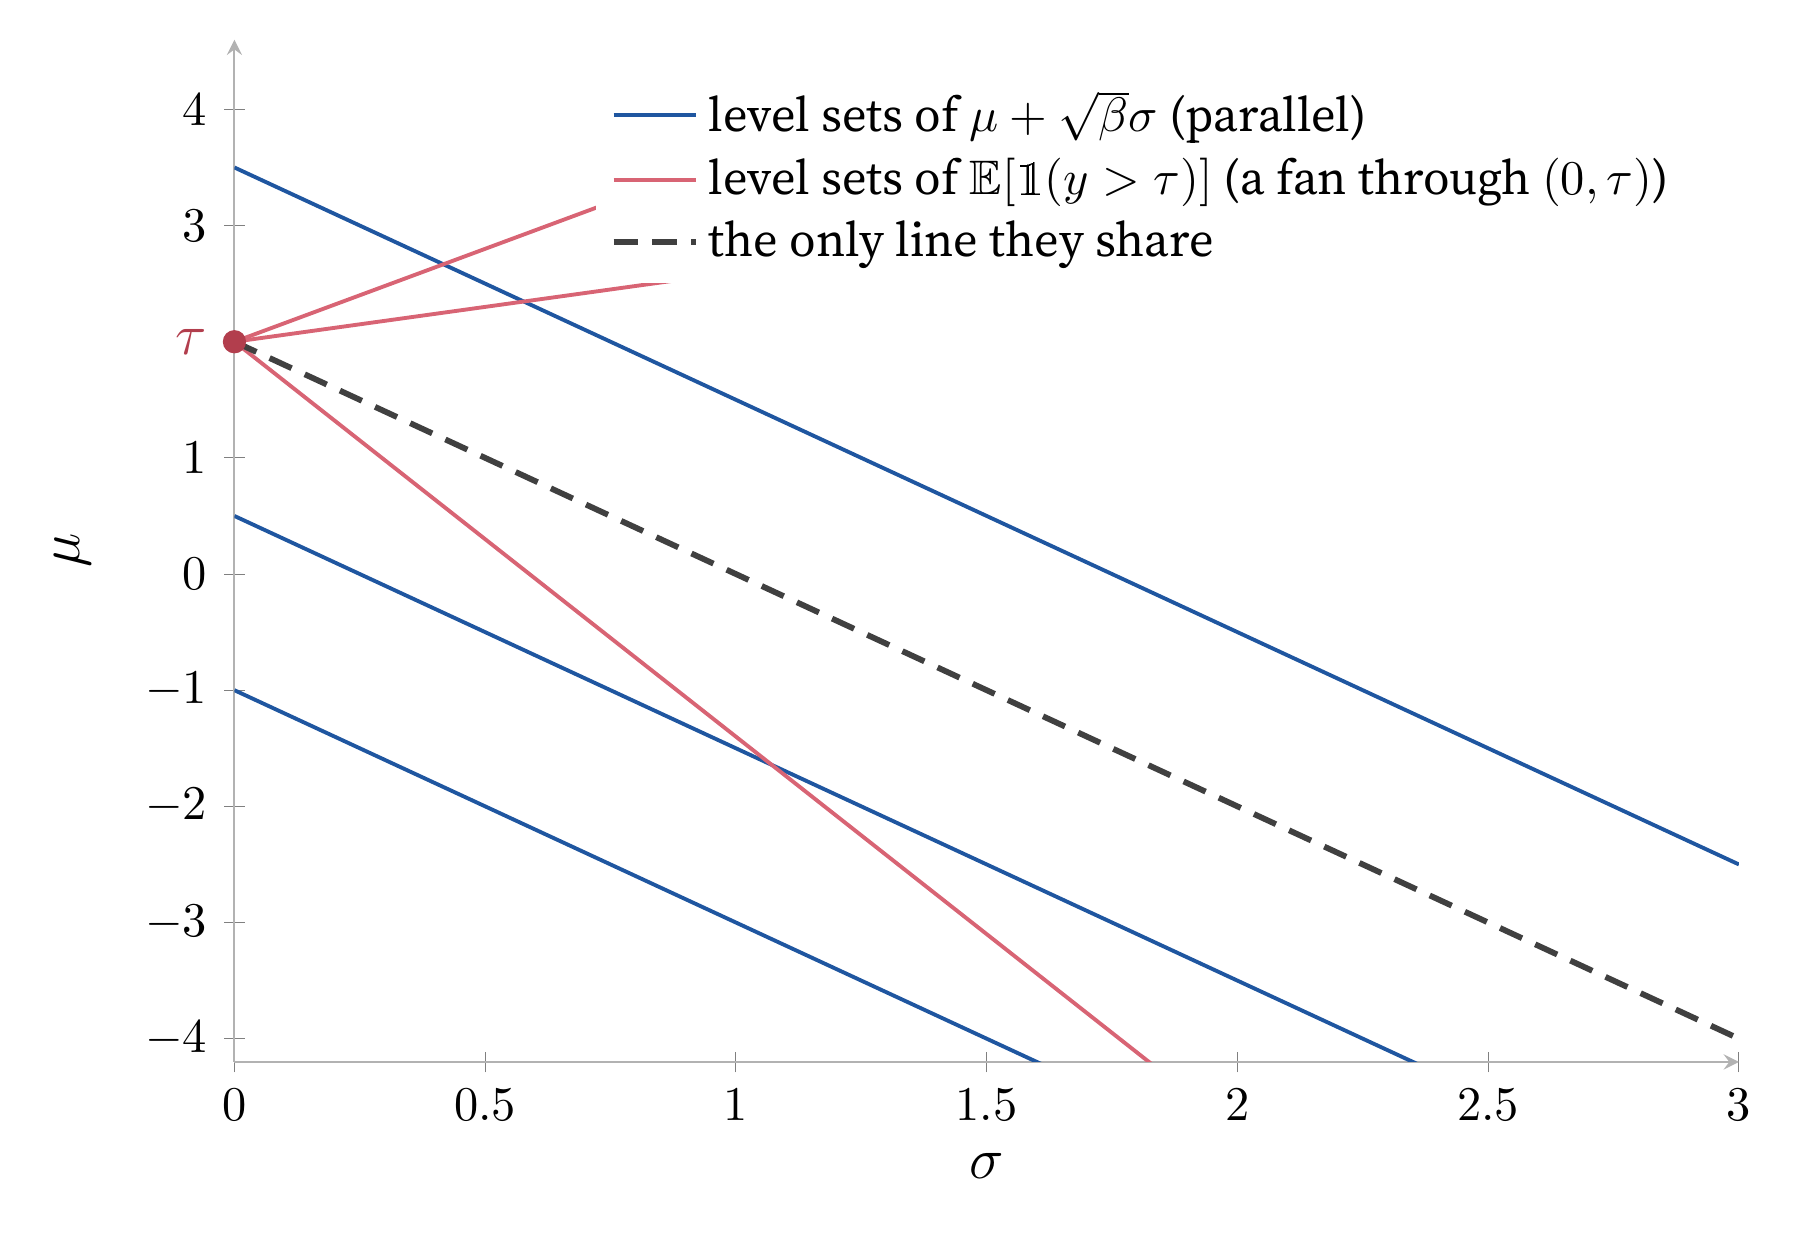
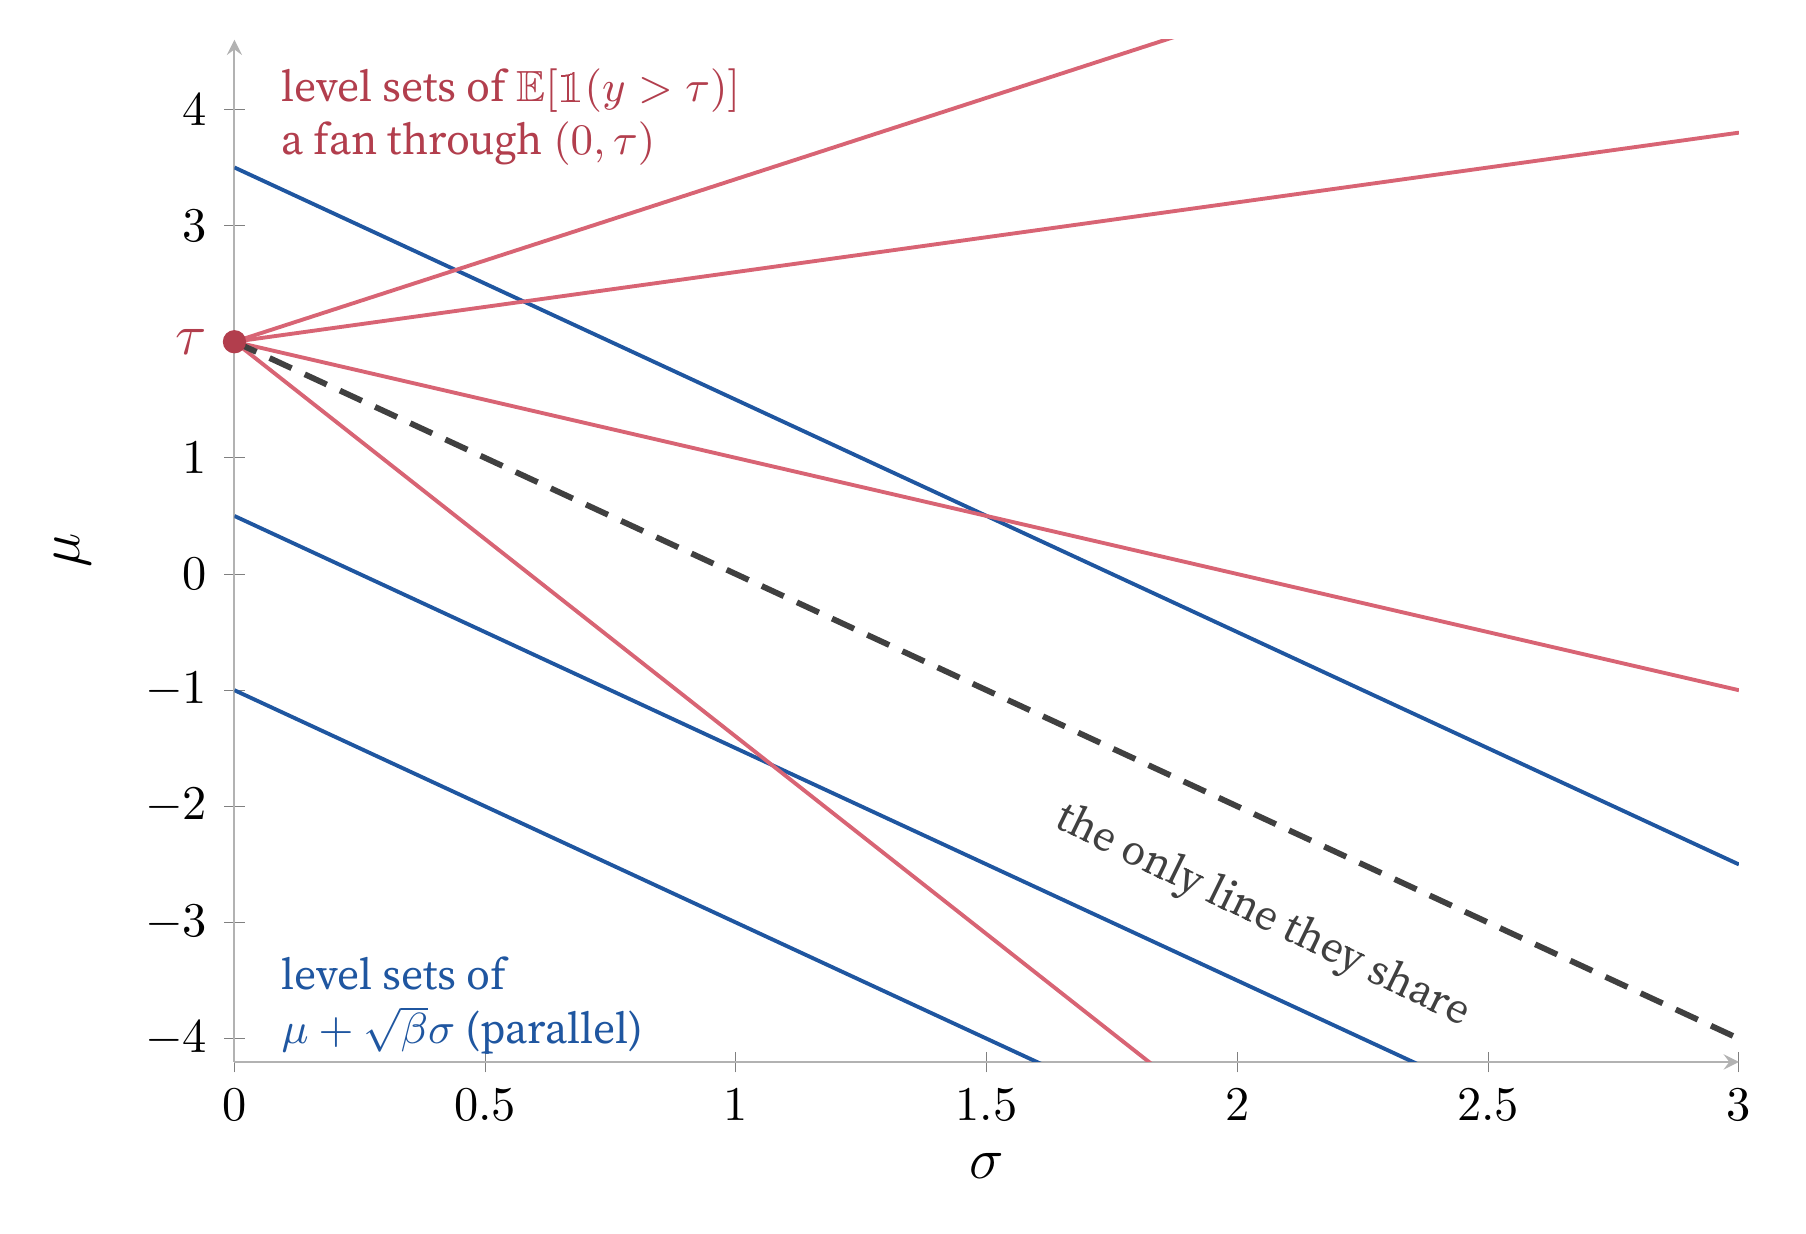
fig: restore in-plot labels on level-sets, placed in line-free regions
Full-length fan back (four rays); smaller labels computed to avoid every
line: fan label in the top-left strip, parallels label in the bottom-left
corner, shared-line label rotated along the empty corridor. Tau stays as
an axis tick.

diff --git a/content/posts/likelihood-free-ucb/src/level-sets.tex b/content/posts/likelihood-free-ucb/src/level-sets.tex
@@ -22,26 +22,28 @@
   extra y ticks={2},
   extra y tick labels={$\tau$},
   extra y tick style={tick label style={font=\large, winner!85!black}},
-  legend style={at={(0.97,0.97)}, anchor=north east, font=\normalsize, draw=none,
-                fill=white, fill opacity=1, text opacity=1},
-  legend cell align=left,
   clip=true,
 ]
 % UCB level sets: mu = s - 2*sigma (parallel, slope -2)
 \addplot[domain=0:3, samples=2, thick, qbase] {-1 - 2*x};
-\addlegendentry{level sets of $\mu + \sqrt{\beta}\sigma$ (parallel)}
-\addplot[domain=0:3, samples=2, thick, qbase, forget plot] {0.5 - 2*x};
-\addplot[domain=0:3, samples=2, thick, qbase, forget plot] {3.5 - 2*x};
+\addplot[domain=0:3, samples=2, thick, qbase] {0.5 - 2*x};
+\addplot[domain=0:3, samples=2, thick, qbase] {3.5 - 2*x};
 % PI(tau=2) level sets: mu = 2 + c*sigma (fan through (0,2))
 \addplot[domain=0:3, samples=2, thick, winner!85] {2 - 3.4*x};
-\addlegendentry{level sets of $\mathbb{E}[\mathbbm{1}(y > \tau)]$ (a fan through $(0, \tau)$)}
-\addplot[domain=0:1.55, samples=2, thick, winner!85, forget plot] {2 + 0.6*x};
-\addplot[domain=0:0.85, samples=2, thick, winner!85, forget plot] {2 + 1.6*x};
+\addplot[domain=0:3, samples=2, thick, winner!85] {2 - 1*x};
+\addplot[domain=0:3, samples=2, thick, winner!85] {2 + 0.6*x};
+\addplot[domain=0:3, samples=2, thick, winner!85] {2 + 1.4*x};
 % the one shared line: c = -2 coincides with s = 2
 \addplot[domain=0:3, samples=2, very thick, dash pattern=on 5pt off 3pt, black!75] {2 - 2*x};
-\addlegendentry{the only line they share}
 % fan apex
-\addplot[only marks, mark=*, mark size=2.2pt, winner!85!black, forget plot] coordinates {(0,2)};
+\addplot[only marks, mark=*, mark size=2.2pt, winner!85!black] coordinates {(0,2)};
+% labels, placed in line-free regions
+\node[winner!85!black, font=\small, anchor=north west, align=left] at (axis cs:0.06,4.5)
+  {level sets of $\mathbb{E}[\mathbbm{1}(y > \tau)]$\\ a fan through $(0, \tau)$};
+\node[qbase, font=\small, anchor=north west, align=left] at (axis cs:0.06,-3.15)
+  {level sets of\\ $\mu + \sqrt{\beta}\sigma$ (parallel)};
+\node[black!75, font=\small, anchor=center, rotate=-26] at (axis cs:2.05,-2.95)
+  {the only line they share};
 \end{axis}
 \end{tikzpicture}
 \end{document}
